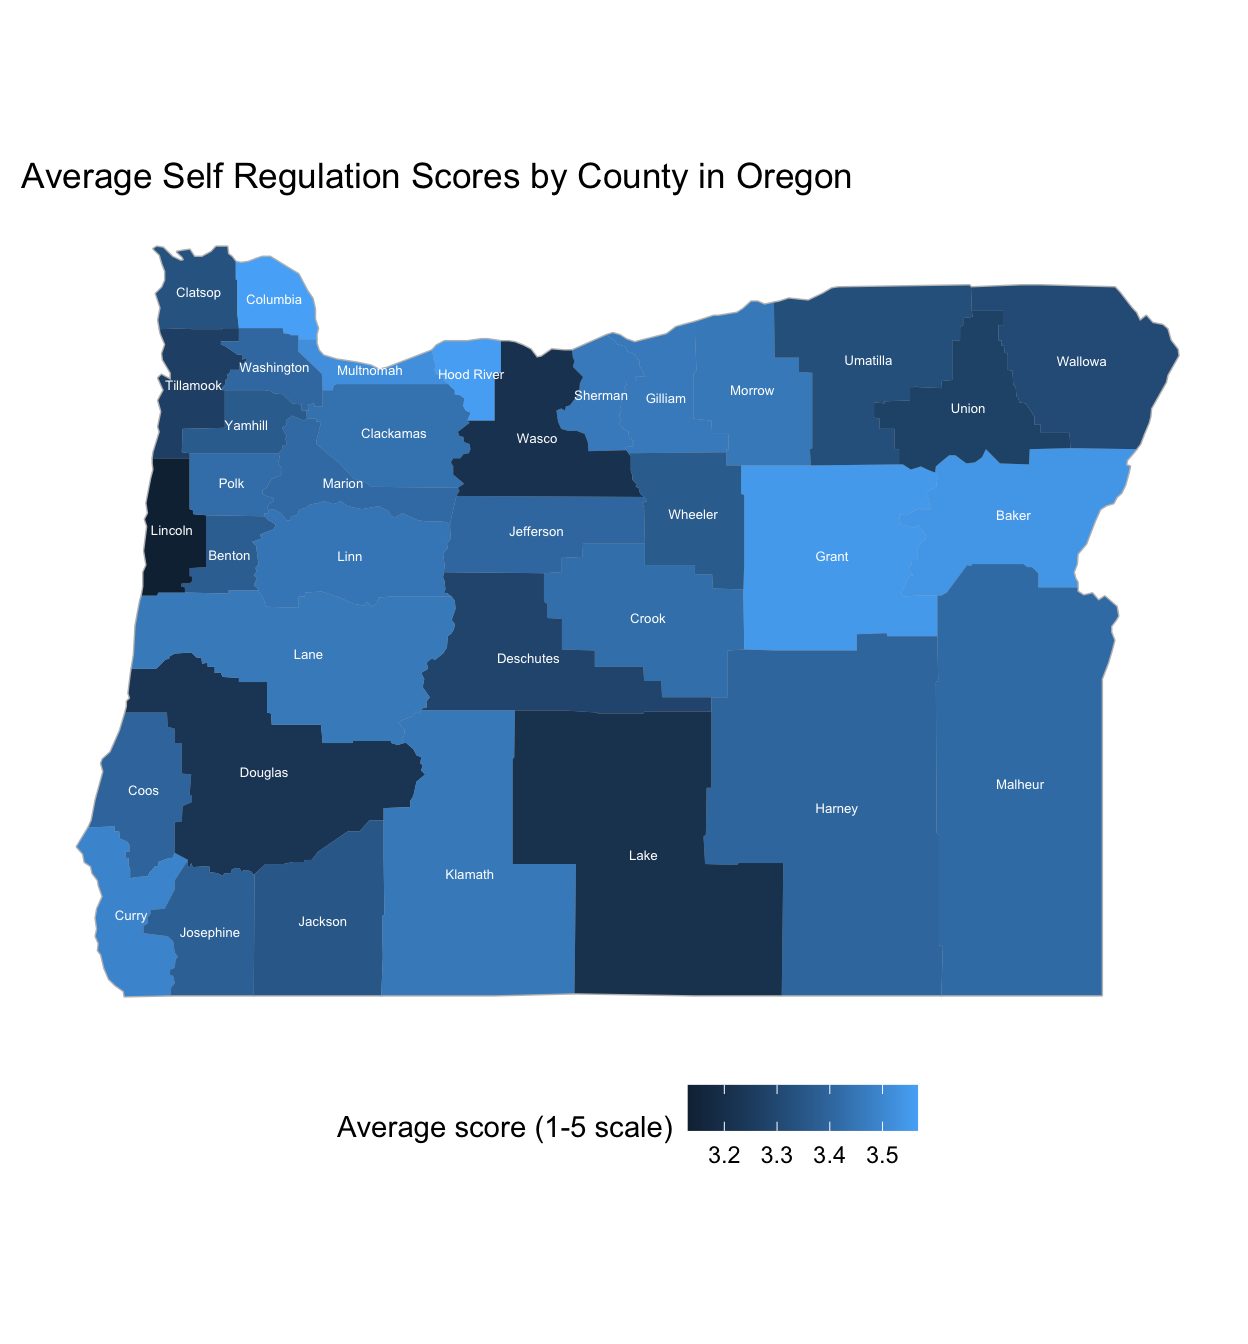
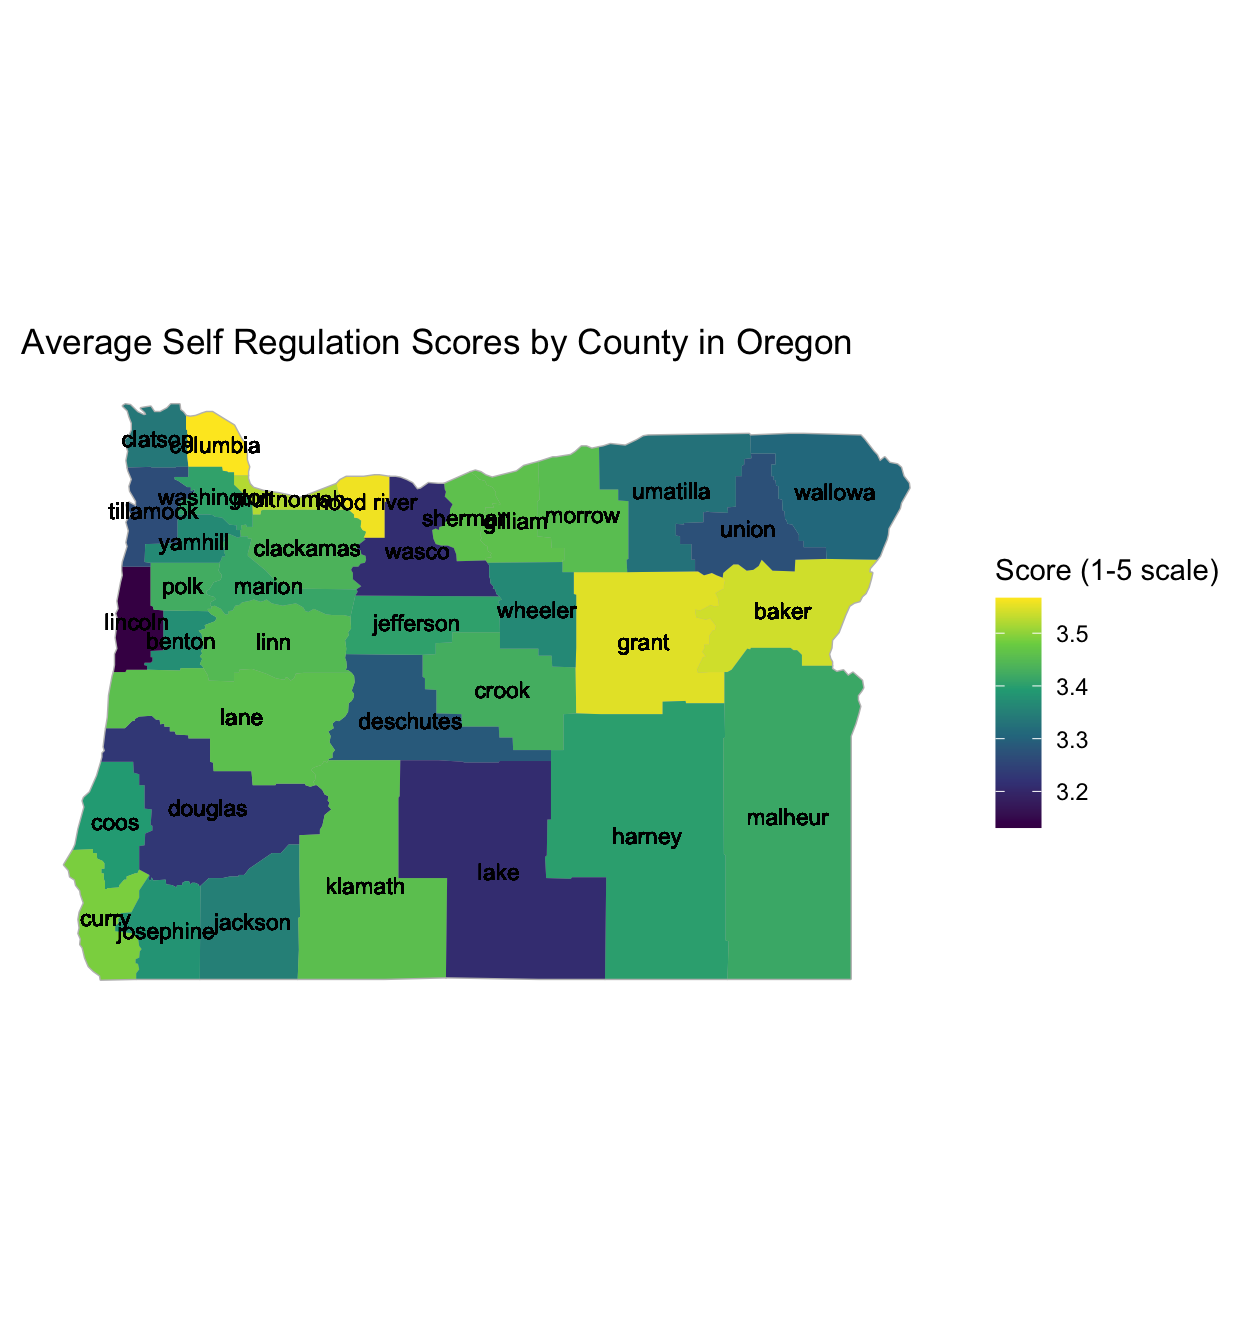
mostly viz1 edits

diff --git a/docs/posts/viz1/index.html b/docs/posts/viz1/index.html
@@ -35,7 +35,7 @@
 <meta property="og:type" content="article"/>
 <meta property="og:description" content="Mapping self-regulation scores by county"/>
 <meta property="og:url" content="https://github.com/jhwrigh23/class_website/posts/viz1/"/>
-<meta property="og:image" content="https://github.com/jhwrigh23/class_website/posts/viz1/viz1_files/figure-html5/unnamed-chunk-1-1.png"/>
+<meta property="og:image" content="https://github.com/jhwrigh23/class_website/posts/viz1/viz1_files/figure-html5/unnamed-chunk-4-1.png"/>
 <meta property="og:image:width" content="1248"/>
 <meta property="og:image:height" content="1344"/>
 <meta property="og:locale" content="en_US"/>
@@ -46,7 +46,7 @@
 <meta property="twitter:title" content="Data Visualization Winter 2020: Visualization #1"/>
 <meta property="twitter:description" content="Mapping self-regulation scores by county"/>
 <meta property="twitter:url" content="https://github.com/jhwrigh23/class_website/posts/viz1/"/>
-<meta property="twitter:image" content="https://github.com/jhwrigh23/class_website/posts/viz1/viz1_files/figure-html5/unnamed-chunk-1-1.png"/>
+<meta property="twitter:image" content="https://github.com/jhwrigh23/class_website/posts/viz1/viz1_files/figure-html5/unnamed-chunk-4-1.png"/>
 <meta property="twitter:image:width" content="1248"/>
 <meta property="twitter:image:height" content="1344"/>
 
@@ -65,7 +65,7 @@
 <!--/radix_placeholder_rmarkdown_metadata-->
   
   <script type="text/json" id="radix-resource-manifest">
-  {"type":"character","attributes":{},"value":["viz1/bowser-1.9.3/bowser.min.js","viz1/core-js-2.5.3/LICENSE","viz1/core-js-2.5.3/package.json","viz1/core-js-2.5.3/shim.min.js","viz1/distill-2.2.21/template.v2.js","viz1/figure-html5/unnamed-chunk-1-1.png","viz1/figure-html5/unnamed-chunk-2-1.png","viz1/figure-html5/Viz #1 Refining-1.png","viz1/figure-html5/Viz #1-1.png","viz1/figure-html5/viz1-1.png","viz1/figure-html5/viz1-refining-1.png","viz1/htmlwidgets-1.5.1/htmlwidgets.js","viz1/jquery-1.11.3/jquery.min.js","viz1/react-16.12.0/AUTHORS","viz1/react-16.12.0/LICENSE.txt","viz1/react-16.12.0/react-dom.min.js","viz1/react-16.12.0/react.min.js","viz1/reactable-binding-0.1.0/reactable.js","viz1/reactwidget-1.0.0/react-tools.js","viz1/reactwidget-1.0.0/react-tools.js.map","viz1/webcomponents-2.0.0/webcomponents.js","viz1_files/bowser-1.9.3/bowser.min.js","viz1_files/core-js-2.5.3/LICENSE","viz1_files/core-js-2.5.3/package.json","viz1_files/core-js-2.5.3/shim.min.js","viz1_files/distill-2.2.21/template.v2.js","viz1_files/figure-html5/unnamed-chunk-1-1.png","viz1_files/figure-html5/viz1-1.png","viz1_files/figure-html5/viz1-refining-1.png","viz1_files/figure-html5/viz1-vers1-1.png","viz1_files/figure-html5/viz1-vers2-1.png","viz1_files/figure-html5/viz1-vers3-1.png","viz1_files/figure-html5/viz1-vers4-1.png","viz1_files/figure-html5/viz1-vers5-1.png","viz1_files/htmlwidgets-1.5.1/htmlwidgets.js","viz1_files/jquery-1.11.3/jquery.min.js","viz1_files/react-16.12.0/AUTHORS","viz1_files/react-16.12.0/LICENSE.txt","viz1_files/react-16.12.0/react-dom.min.js","viz1_files/react-16.12.0/react.min.js","viz1_files/reactable-binding-0.1.0/reactable.js","viz1_files/reactwidget-1.0.0/react-tools.js","viz1_files/reactwidget-1.0.0/react-tools.js.map","viz1_files/webcomponents-2.0.0/webcomponents.js"]}
+  {"type":"character","attributes":{},"value":["viz1/bowser-1.9.3/bowser.min.js","viz1/core-js-2.5.3/LICENSE","viz1/core-js-2.5.3/package.json","viz1/core-js-2.5.3/shim.min.js","viz1/distill-2.2.21/template.v2.js","viz1/figure-html5/unnamed-chunk-1-1.png","viz1/figure-html5/unnamed-chunk-2-1.png","viz1/figure-html5/Viz #1 Refining-1.png","viz1/figure-html5/Viz #1-1.png","viz1/figure-html5/viz1-1.png","viz1/figure-html5/viz1-refining-1.png","viz1/htmlwidgets-1.5.1/htmlwidgets.js","viz1/jquery-1.11.3/jquery.min.js","viz1/react-16.12.0/AUTHORS","viz1/react-16.12.0/LICENSE.txt","viz1/react-16.12.0/react-dom.min.js","viz1/react-16.12.0/react.min.js","viz1/reactable-binding-0.1.0/reactable.js","viz1/reactwidget-1.0.0/react-tools.js","viz1/reactwidget-1.0.0/react-tools.js.map","viz1/webcomponents-2.0.0/webcomponents.js","viz1_files/bowser-1.9.3/bowser.min.js","viz1_files/core-js-2.5.3/LICENSE","viz1_files/core-js-2.5.3/package.json","viz1_files/core-js-2.5.3/shim.min.js","viz1_files/distill-2.2.21/template.v2.js","viz1_files/figure-html5/unnamed-chunk-1-1.png","viz1_files/figure-html5/unnamed-chunk-2-1.png","viz1_files/figure-html5/unnamed-chunk-3-1.png","viz1_files/figure-html5/unnamed-chunk-4-1.png","viz1_files/figure-html5/viz1-1.png","viz1_files/figure-html5/viz1-refining-1.png","viz1_files/figure-html5/viz1-vers1-1.png","viz1_files/figure-html5/viz1-vers2-1.png","viz1_files/figure-html5/viz1-vers3-1.png","viz1_files/figure-html5/viz1-vers4-1.png","viz1_files/figure-html5/viz1-vers5-1.png","viz1_files/htmlwidgets-1.5.1/htmlwidgets.js","viz1_files/jquery-1.11.3/jquery.min.js","viz1_files/react-16.12.0/AUTHORS","viz1_files/react-16.12.0/LICENSE.txt","viz1_files/react-16.12.0/react-dom.min.js","viz1_files/react-16.12.0/react.min.js","viz1_files/reactable-binding-0.1.0/reactable.js","viz1_files/reactwidget-1.0.0/react-tools.js","viz1_files/reactwidget-1.0.0/react-tools.js.map","viz1_files/webcomponents-2.0.0/webcomponents.js"]}
   </script>
   <!--radix_placeholder_navigation_in_header-->
 
@@ -1331,9 +1331,18 @@ document.addEventListener('DOMContentLoaded', function() {
 </div>
 
 <div class="d-article">
-Libraries for Visualization 1:
 <div class="layout-chunk" data-layout="l-body">
-
+<pre class="r"><code>
+library(tidyverse)
+library(rio)
+library(here)
+library(janitor)
+library(maps)
+library(mapdata)
+library(ggtext)
+library(colorblindr)
+library(sf)
+library(sp)</code></pre>
 </div>
 <div class="layout-chunk" data-layout="l-body">
 
@@ -1341,16 +1350,14 @@ Libraries for Visualization 1:
 <div class="layout-chunk" data-layout="l-body">
 
 </div>
-<p>The purpose of Plot 1 is to explore differences in average self-regulation scores across counties and represent this geographically.</p>
-<p>To do so, I first needed to load Oregon county map data and then join the OKA dataset with the mapping data.</p>
+<p>The purpose of Plot 1 is to explore differences in average self-regulation scores across counties and represent this geographically. A geographic heat map could be a useful way of quickly getting a sense of higher and lower scores across the state. To do this, I joined my data with OR county mapping data. The initial map looked like this:</p>
 <div class="layout-chunk" data-layout="l-body">
 
 </div>
-<p>Then I tried creating the map:</p>
 <div class="layout-chunk" data-layout="l-body">
 <p><img src="viz1_files/figure-html5/viz1-vers1-1.png" width="624" /></p>
 </div>
-<p>This map would be more informative if the counties were labeled.</p>
+<p>Of course, the map would be much more informative if the counties were labeled. But clearly this was easier said than done.</p>
 <div class="layout-chunk" data-layout="l-body">
 <p><img src="viz1_files/figure-html5/viz1-vers2-1.png" width="624" /></p>
 </div>
@@ -1358,13 +1365,20 @@ Libraries for Visualization 1:
 <div class="layout-chunk" data-layout="l-body">
 <p><img src="viz1_files/figure-html5/viz1-vers3-1.png" width="624" /></p>
 </div>
-<p>While this accomplished what I wanted it to functionally, it doesn’t look very nice. The blue labels are difficult to read against this these scale colors. So I tried it a few different ways.</p>
+<p>While this accomplished what I wanted it to functionally, it doesn’t look very nice. The blue labels are difficult to read against this these scale colors. I tried out a couple of different palettes.</p>
 <div class="layout-chunk" data-layout="l-body">
-<p><img src="viz1_files/figure-html5/viz1-vers4-1.png" width="624" /></p>
+<p><img src="viz1_files/figure-html5/unnamed-chunk-1-1.png" width="624" /></p>
 </div>
-Some final refining:
 <div class="layout-chunk" data-layout="l-body">
-<p><img src="viz1_files/figure-html5/unnamed-chunk-1-1.png" width="624" data-distill-preview=1 /></p>
+<p><img src="viz1_files/figure-html5/unnamed-chunk-2-1.png" width="624" /></p>
+</div>
+<p>This is getting closer to what I want. It uses a color-blind accessible palette, represents the sequential scale using colors that diverge from the middle, and allows us to read the labels clearly. However, I’d like to make the color scale more intuitive by making red hues represent lower scores and blue hues represent higher scores. This was an easy fix using <code>direction = &quot;horizontal&quot;</code>.</p>
+<div class="layout-chunk" data-layout="l-body">
+<p><img src="viz1_files/figure-html5/unnamed-chunk-3-1.png" width="624" /></p>
+</div>
+<p>Last, I made some final refinements for easy readability, including making the county labels larger, using <code>str_to_title</code> for county names, putting the legend on the bottom, and adjusting the aspect ratio. I also used <code>check_overlap = TRUE</code> to manage the issue of county labels overlapping. This isn’t a full soluation, because it results in a couple of counties being unlabeled. But it was the best solution I could find for now, and it at least has most counties labeled and makes the map legible.</p>
+<div class="layout-chunk" data-layout="l-body">
+<p><img src="viz1_files/figure-html5/unnamed-chunk-4-1.png" width="624" data-distill-preview=1 /></p>
 </div>
 <!--radix_placeholder_article_footer-->
 <!--/radix_placeholder_article_footer-->

diff --git a/_posts/viz1/viz1.html b/_posts/viz1/viz1.html
@@ -49,7 +49,7 @@
   <!--/radix_placeholder_rmarkdown_metadata-->
   
   <script type="text/json" id="radix-resource-manifest">
-  {"type":"character","attributes":{},"value":["viz1/bowser-1.9.3/bowser.min.js","viz1/core-js-2.5.3/LICENSE","viz1/core-js-2.5.3/package.json","viz1/core-js-2.5.3/shim.min.js","viz1/distill-2.2.21/template.v2.js","viz1/figure-html5/unnamed-chunk-1-1.png","viz1/figure-html5/unnamed-chunk-2-1.png","viz1/figure-html5/Viz #1 Refining-1.png","viz1/figure-html5/Viz #1-1.png","viz1/figure-html5/viz1-1.png","viz1/figure-html5/viz1-refining-1.png","viz1/htmlwidgets-1.5.1/htmlwidgets.js","viz1/jquery-1.11.3/jquery.min.js","viz1/react-16.12.0/AUTHORS","viz1/react-16.12.0/LICENSE.txt","viz1/react-16.12.0/react-dom.min.js","viz1/react-16.12.0/react.min.js","viz1/reactable-binding-0.1.0/reactable.js","viz1/reactwidget-1.0.0/react-tools.js","viz1/reactwidget-1.0.0/react-tools.js.map","viz1/webcomponents-2.0.0/webcomponents.js","viz1_files/bowser-1.9.3/bowser.min.js","viz1_files/core-js-2.5.3/LICENSE","viz1_files/core-js-2.5.3/package.json","viz1_files/core-js-2.5.3/shim.min.js","viz1_files/distill-2.2.21/template.v2.js","viz1_files/figure-html5/unnamed-chunk-1-1.png","viz1_files/figure-html5/viz1-1.png","viz1_files/figure-html5/viz1-refining-1.png","viz1_files/figure-html5/viz1-vers1-1.png","viz1_files/figure-html5/viz1-vers2-1.png","viz1_files/figure-html5/viz1-vers3-1.png","viz1_files/figure-html5/viz1-vers4-1.png","viz1_files/figure-html5/viz1-vers5-1.png","viz1_files/htmlwidgets-1.5.1/htmlwidgets.js","viz1_files/jquery-1.11.3/jquery.min.js","viz1_files/react-16.12.0/AUTHORS","viz1_files/react-16.12.0/LICENSE.txt","viz1_files/react-16.12.0/react-dom.min.js","viz1_files/react-16.12.0/react.min.js","viz1_files/reactable-binding-0.1.0/reactable.js","viz1_files/reactwidget-1.0.0/react-tools.js","viz1_files/reactwidget-1.0.0/react-tools.js.map","viz1_files/webcomponents-2.0.0/webcomponents.js"]}
+  {"type":"character","attributes":{},"value":["viz1/bowser-1.9.3/bowser.min.js","viz1/core-js-2.5.3/LICENSE","viz1/core-js-2.5.3/package.json","viz1/core-js-2.5.3/shim.min.js","viz1/distill-2.2.21/template.v2.js","viz1/figure-html5/unnamed-chunk-1-1.png","viz1/figure-html5/unnamed-chunk-2-1.png","viz1/figure-html5/Viz #1 Refining-1.png","viz1/figure-html5/Viz #1-1.png","viz1/figure-html5/viz1-1.png","viz1/figure-html5/viz1-refining-1.png","viz1/htmlwidgets-1.5.1/htmlwidgets.js","viz1/jquery-1.11.3/jquery.min.js","viz1/react-16.12.0/AUTHORS","viz1/react-16.12.0/LICENSE.txt","viz1/react-16.12.0/react-dom.min.js","viz1/react-16.12.0/react.min.js","viz1/reactable-binding-0.1.0/reactable.js","viz1/reactwidget-1.0.0/react-tools.js","viz1/reactwidget-1.0.0/react-tools.js.map","viz1/webcomponents-2.0.0/webcomponents.js","viz1_files/bowser-1.9.3/bowser.min.js","viz1_files/core-js-2.5.3/LICENSE","viz1_files/core-js-2.5.3/package.json","viz1_files/core-js-2.5.3/shim.min.js","viz1_files/distill-2.2.21/template.v2.js","viz1_files/figure-html5/unnamed-chunk-1-1.png","viz1_files/figure-html5/unnamed-chunk-2-1.png","viz1_files/figure-html5/unnamed-chunk-3-1.png","viz1_files/figure-html5/unnamed-chunk-4-1.png","viz1_files/figure-html5/viz1-1.png","viz1_files/figure-html5/viz1-refining-1.png","viz1_files/figure-html5/viz1-vers1-1.png","viz1_files/figure-html5/viz1-vers2-1.png","viz1_files/figure-html5/viz1-vers3-1.png","viz1_files/figure-html5/viz1-vers4-1.png","viz1_files/figure-html5/viz1-vers5-1.png","viz1_files/htmlwidgets-1.5.1/htmlwidgets.js","viz1_files/jquery-1.11.3/jquery.min.js","viz1_files/react-16.12.0/AUTHORS","viz1_files/react-16.12.0/LICENSE.txt","viz1_files/react-16.12.0/react-dom.min.js","viz1_files/react-16.12.0/react.min.js","viz1_files/reactable-binding-0.1.0/reactable.js","viz1_files/reactwidget-1.0.0/react-tools.js","viz1_files/reactwidget-1.0.0/react-tools.js.map","viz1_files/webcomponents-2.0.0/webcomponents.js"]}
   </script>
   <!--radix_placeholder_navigation_in_header-->
   <!--/radix_placeholder_navigation_in_header-->
@@ -963,9 +963,18 @@
 </div>
 
 <div class="d-article">
-Libraries for Visualization 1:
 <div class="layout-chunk" data-layout="l-body">
-
+<pre class="r"><code>
+library(tidyverse)
+library(rio)
+library(here)
+library(janitor)
+library(maps)
+library(mapdata)
+library(ggtext)
+library(colorblindr)
+library(sf)
+library(sp)</code></pre>
 </div>
 <div class="layout-chunk" data-layout="l-body">
 
@@ -973,16 +982,14 @@ Libraries for Visualization 1:
 <div class="layout-chunk" data-layout="l-body">
 
 </div>
-<p>The purpose of Plot 1 is to explore differences in average self-regulation scores across counties and represent this geographically.</p>
-<p>To do so, I first needed to load Oregon county map data and then join the OKA dataset with the mapping data.</p>
+<p>The purpose of Plot 1 is to explore differences in average self-regulation scores across counties and represent this geographically. A geographic heat map could be a useful way of quickly getting a sense of higher and lower scores across the state. To do this, I joined my data with OR county mapping data. The initial map looked like this:</p>
 <div class="layout-chunk" data-layout="l-body">
 
 </div>
-<p>Then I tried creating the map:</p>
 <div class="layout-chunk" data-layout="l-body">
 <p><img src="viz1_files/figure-html5/viz1-vers1-1.png" width="624" /></p>
 </div>
-<p>This map would be more informative if the counties were labeled.</p>
+<p>Of course, the map would be much more informative if the counties were labeled. But clearly this was easier said than done.</p>
 <div class="layout-chunk" data-layout="l-body">
 <p><img src="viz1_files/figure-html5/viz1-vers2-1.png" width="624" /></p>
 </div>
@@ -990,13 +997,20 @@ Libraries for Visualization 1:
 <div class="layout-chunk" data-layout="l-body">
 <p><img src="viz1_files/figure-html5/viz1-vers3-1.png" width="624" /></p>
 </div>
-<p>While this accomplished what I wanted it to functionally, it doesn’t look very nice. The blue labels are difficult to read against this these scale colors. So I tried it a few different ways.</p>
+<p>While this accomplished what I wanted it to functionally, it doesn’t look very nice. The blue labels are difficult to read against this these scale colors. I tried out a couple of different palettes.</p>
 <div class="layout-chunk" data-layout="l-body">
-<p><img src="viz1_files/figure-html5/viz1-vers4-1.png" width="624" /></p>
+<p><img src="viz1_files/figure-html5/unnamed-chunk-1-1.png" width="624" /></p>
 </div>
-Some final refining:
 <div class="layout-chunk" data-layout="l-body">
-<p><img src="viz1_files/figure-html5/unnamed-chunk-1-1.png" width="624" data-distill-preview=1 /></p>
+<p><img src="viz1_files/figure-html5/unnamed-chunk-2-1.png" width="624" /></p>
+</div>
+<p>This is getting closer to what I want. It uses a color-blind accessible palette, represents the sequential scale using colors that diverge from the middle, and allows us to read the labels clearly. However, I’d like to make the color scale more intuitive by making red hues represent lower scores and blue hues represent higher scores. This was an easy fix using <code>direction = &quot;horizontal&quot;</code>.</p>
+<div class="layout-chunk" data-layout="l-body">
+<p><img src="viz1_files/figure-html5/unnamed-chunk-3-1.png" width="624" /></p>
+</div>
+<p>Last, I made some final refinements for easy readability, including making the county labels larger, using <code>str_to_title</code> for county names, putting the legend on the bottom, and adjusting the aspect ratio. I also used <code>check_overlap = TRUE</code> to manage the issue of county labels overlapping. This isn’t a full soluation, because it results in a couple of counties being unlabeled. But it was the best solution I could find for now, and it at least has most counties labeled and makes the map legible.</p>
+<div class="layout-chunk" data-layout="l-body">
+<p><img src="viz1_files/figure-html5/unnamed-chunk-4-1.png" width="624" data-distill-preview=1 /></p>
 </div>
 <!--radix_placeholder_article_footer-->
 <!--/radix_placeholder_article_footer-->

diff --git a/docs/index.html b/docs/index.html
@@ -1658,7 +1658,7 @@ function init_posts_list() {
 <div class="publishedDate">Feb. 26, 2020</div>
 </div>
 <div class="thumbnail">
-<img data-src="posts/viz1/viz1_files/figure-html5/unnamed-chunk-1-1.png"/>
+<img data-src="posts/viz1/viz1_files/figure-html5/unnamed-chunk-4-1.png"/>
 </div>
 <div class="description">
 <h2>Visualization #1</h2>
